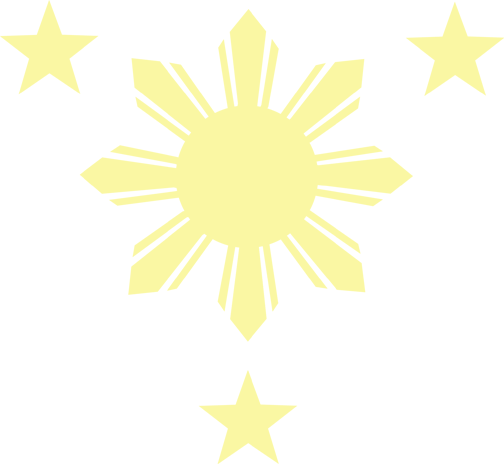
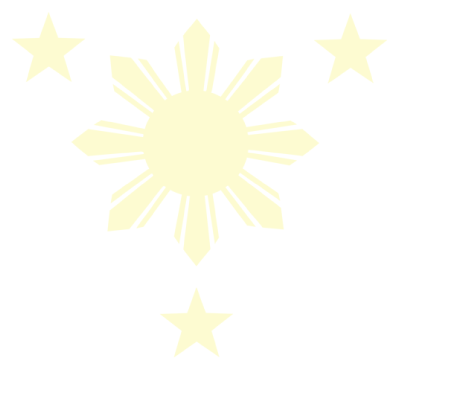
Project 2 -- Background image, Box Shadows

Changed region(s): [[0.1496, 0.0, 1.0, 1.0], [0.0, 0.0, 0.2094, 0.2049]]

diff --git a/index.html b/index.html
@@ -42,7 +42,7 @@
 
         <h2>History</h2>
 
-        <ol class="menu">
+        <ol class="menu" id="historymenu">
             <li><a href="#origin">Origin</a> | </li>
             <li><a href="#modern">Modern History</a></li>
         </ol>
@@ -164,7 +164,7 @@
 
         <h2>Types of Filipino Martial Arts</h2>
 
-        <ul class="menu">
+        <ul class="menu" id="typesmenu">
             <li><a href="#eskrima">Eskrima</a> | </li>
             <li><a href="#dumog">Dumog</a> | </li>
             <li><a href="#sikaran">Sikaran</a> | </li>
@@ -284,7 +284,7 @@
 
     <div id="weapons">
         <h2>Weapons</h2>
-        <ul class="menu">
+        <ul class="menu" id="weaponsmenu">
             <li><a href="#impact">Impact</a> | </li>
             <li><a href="#edged">Edged</a></li>
         </ul>
@@ -322,7 +322,7 @@
 
         <h2>Notable Figures</h2>
 
-        <ul class="menu">
+        <ul class="menu" id="figuresmenu">
             <li><a href="#masters">Historical Masters</a> | </li>
             <li><a href="#characters">Fictional Characters</a></li>
         </ul>

diff --git a/css/main.css b/css/main.css
@@ -1,6 +1,8 @@
 /* GLOBAL STYLES */
 
 body {
+    background-image: url(../images/sunstars.png);
+    background-repeat: repeat;
     background-color: #333333;
     color: #000000;
     font-family: 'Questrial', Arial, sans-serif;
@@ -11,6 +13,9 @@ div {
     padding: 20px 20px;
     background-color: #ffffff;
     border-radius: 20px;
+    -webkit-box-shadow: 9px 10px 13px 0px rgba(0,0,0,0.45);
+    -moz-box-shadow: 9px 10px 13px 0px rgba(0,0,0,0.45);
+    box-shadow: 9px 10px 13px 0px rgba(0,0,0,0.45);
     opacity: 0.8
 }
 
@@ -130,7 +135,7 @@ h4 {
     text-align: center;
 }
 
-#mainheader p, a {
+#mainheader p,a{
     margin-top: -35px;
     color: #375695;
     font-family: Georgia, serif;
